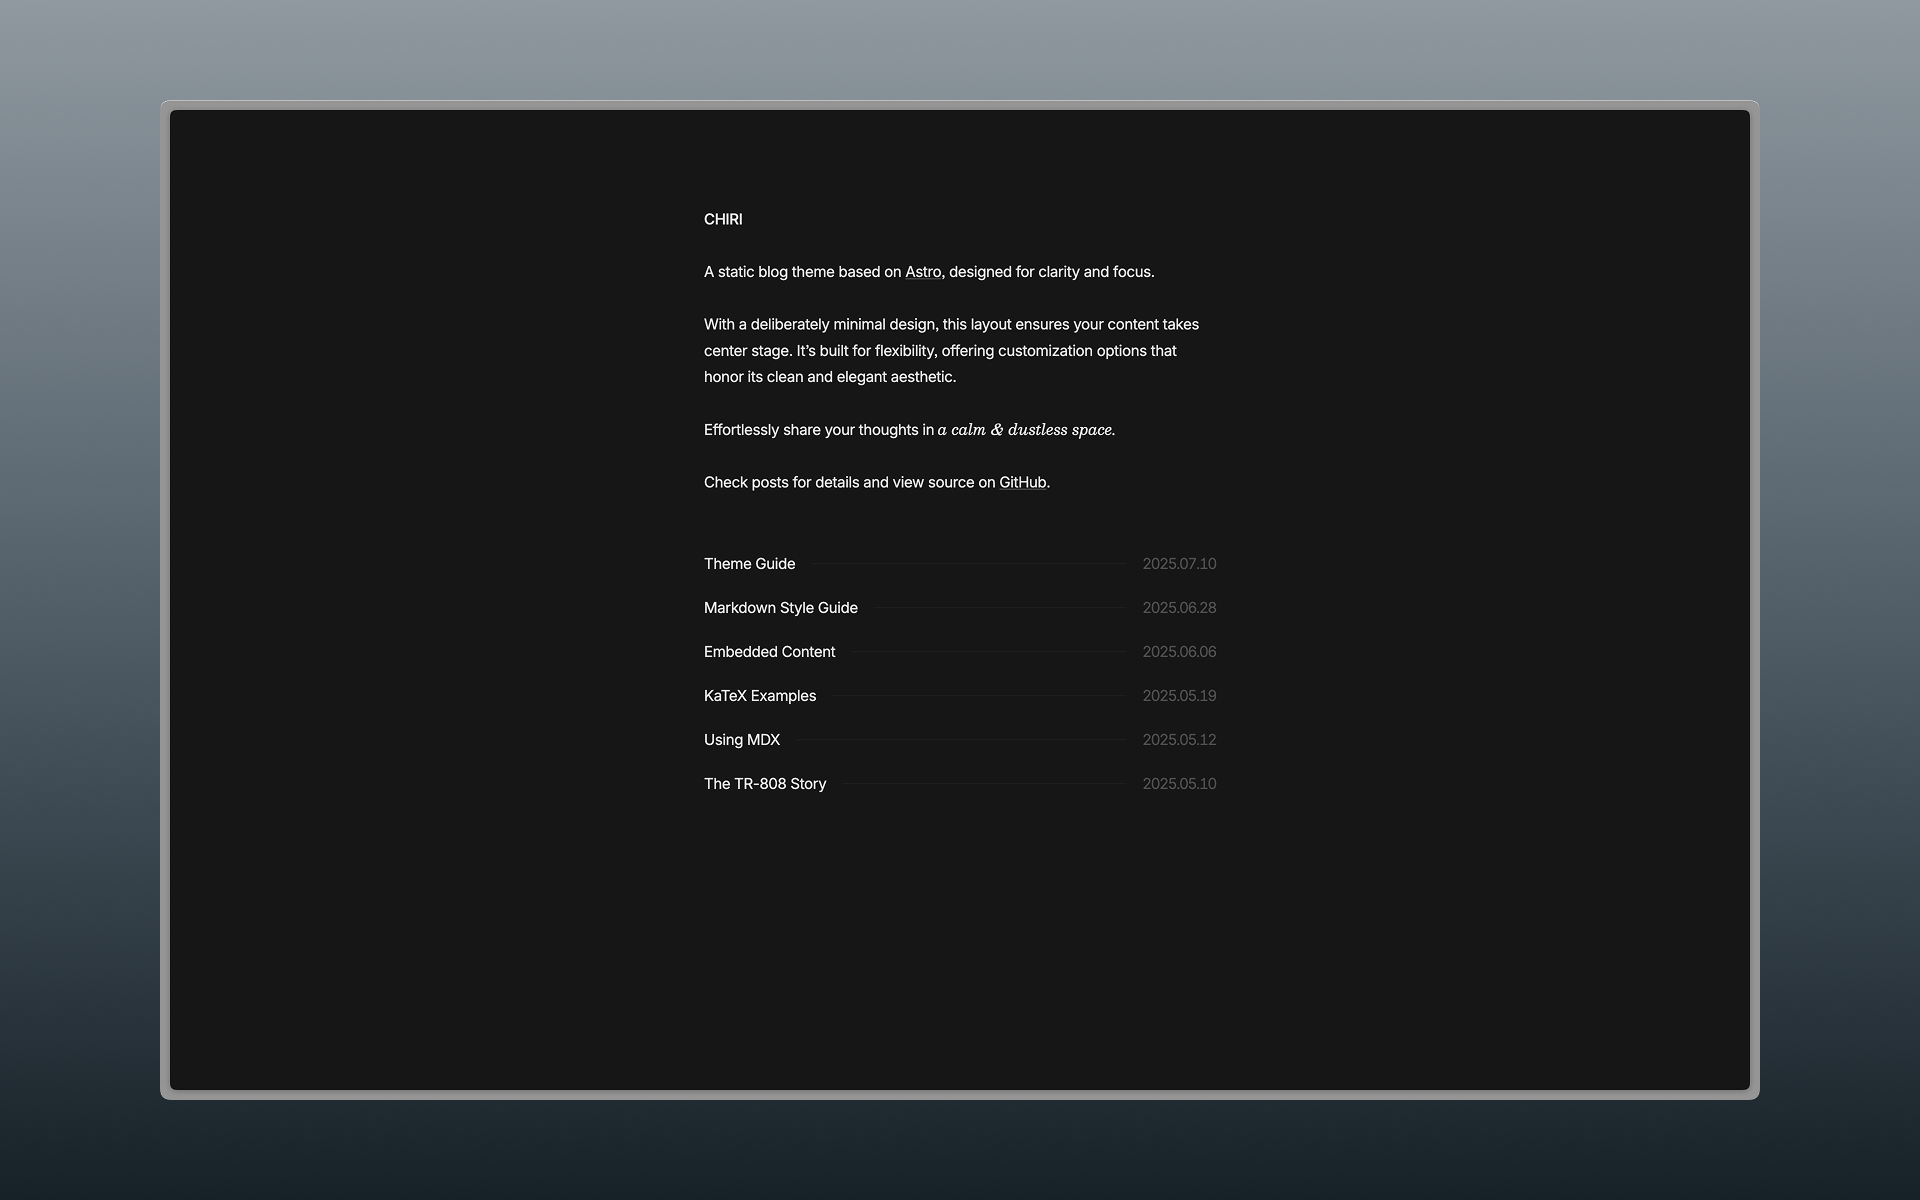
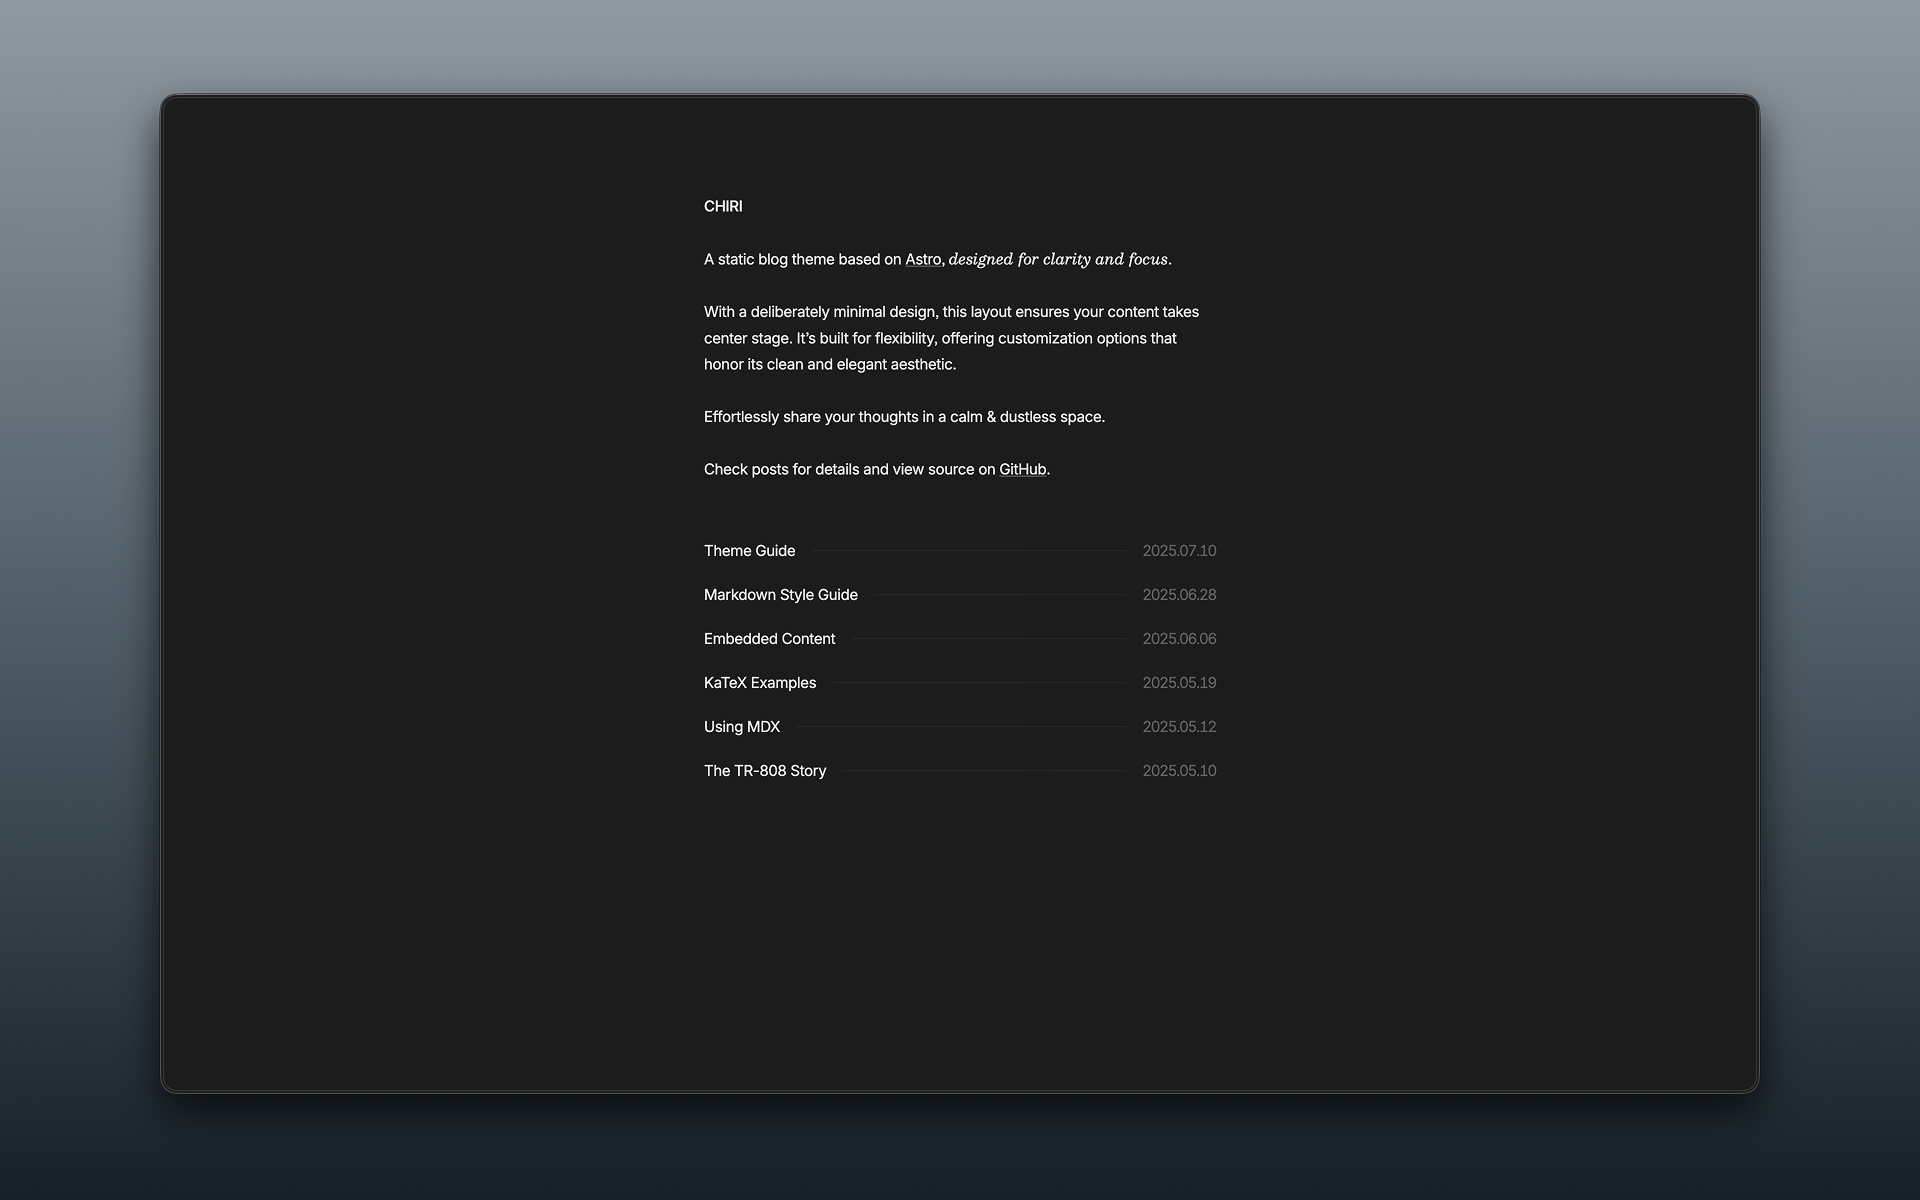
feat: add first blog post and SEO article template

diff --git a/src/content/posts/my-first-post.md b/src/content/posts/my-first-post.md
@@ -1,0 +1,122 @@
+---
+title: Astro 部署 GitHub Pages 404 问题解决方案（base路径 + Actions配置）
+description: 记录 Astro 项目部署到 GitHub Pages 出现 404、样式丢失、资源路径错误的排查与解决方法
+pubDate: 2026-05-13
+tags: ["Astro", "GitHub Pages", "部署", "404", "base路径", "GitHub Actions"]
+---
+
+这篇记录一下 Astro 项目部署到 GitHub Pages 时遇到的几个典型问题：
+
+- 页面 404
+- CSS / JS 丢失
+- 图片资源加载失败
+- GitHub Actions 构建问题
+
+基本都是部署路径和配置问题。
+
+---
+
+## 问题一：GitHub Pages 部署后 404
+
+刚开始部署完，访问 GitHub Pages 地址直接 404。
+
+但 GitHub Actions 是成功的，没有报错。
+
+后来才发现是部署配置或者路径问题导致的。
+
+---
+
+## 问题二：Astro 在 GitHub Pages 必须配置 base
+
+GitHub Pages 的项目站点不是根路径，而是：
+
+```
+https://username.github.io/repo-name/
+```
+
+所以必须在 `astro.config.mjs` 中配置 base：
+
+```js
+import { defineConfig } from "astro/config";
+
+export default defineConfig({
+  base: "/你的仓库名/",
+});
+```
+
+如果不配置，会出现：
+
+- CSS 加载失败
+- JS 不执行
+- 页面结构正常但无样式
+
+---
+
+## 问题三：静态资源路径错误（图片 / CSS）
+
+本地开发时通常这样写：
+
+```
+/images/xxx.png
+```
+
+在 GitHub Pages 上会失效，因为路径不在根目录。
+
+解决方式是使用 base 路径：
+
+```js
+import.meta.env.BASE_URL + "images/xxx.png"
+```
+
+或者统一使用相对 base 的资源路径管理方式。
+
+---
+
+## 问题四：GitHub Actions 构建失败（Node / pnpm）
+
+第一次使用默认 workflow 时遇到构建失败，主要原因是：
+
+- Node 版本过低
+- pnpm 未正确安装或未缓存依赖
+
+修改后配置：
+
+- Node 18+
+- 正确安装依赖（pnpm install）
+- 构建命令 pnpm build
+
+之后构建正常。
+
+---
+
+## 最终解决步骤总结
+
+这次问题最终是通过以下几步解决的：
+
+1. 在 astro.config.mjs 中配置 base
+2. 修复静态资源路径
+3. 修改 GitHub Actions 构建配置
+
+重新部署后正常访问。
+
+---
+
+## 相关关键词（方便搜索）
+
+Astro GitHub Pages 404  
+Astro 部署失败  
+GitHub Pages CSS 不生效  
+Astro base 配置  
+Astro 静态资源路径错误  
+GitHub Actions Astro 部署  
+Astro 项目上线问题  
+
+---
+
+## 结语
+
+这类问题本质上都不是代码错误，而是部署路径问题。
+
+本地正常 ≠ 部署正常，尤其是 GitHub Pages 这种子路径站点。
+
+以后遇到类似问题，优先检查 base 和资源路径。

diff --git a/src/content/posts/_seo_template.md b/src/content/posts/_seo_template.md
@@ -1,0 +1,111 @@
+---
+title: {{关键词1}} + {{问题}} + {{解决方案}}
+description: 解决 {{核心问题}}（包含关键词1 / 关键词2 / 场景）
+pubDate: 2026-05-14
+tags: ["{{技术栈}}", "{{问题关键词}}", "{{场景}}"]
+---
+
+这篇文章记录一下在 {{技术栈}} 中遇到的 {{问题描述}}，以及最终的解决方式。
+
+问题主要出现在：
+- {{问题1}}
+- {{问题2}}
+- {{问题3}}
+
+---
+
+## 问题背景（What happened）
+
+简单描述一下你当时在做什么，比如：
+
+本地开发是正常的，但部署到 {{平台}} 后出现问题。
+
+---
+
+## 问题现象（Symptom）
+
+具体表现是什么：
+
+- 页面 404
+- 样式丢失
+- 接口异常
+- 构建失败
+
+---
+
+## 原因分析（Why）
+
+这里写核心原因（SEO关键段落）
+
+最终发现问题是：
+
+> {{核心原因一句话总结}}
+
+例如：
+- 路径问题
+- base 配置错误
+- 构建工具差异
+- 环境变量问题
+
+---
+
+## 解决方案（Fix）
+
+具体怎么修：
+
+### Step 1
+
+```js
+{{代码/配置1}}
+```
+
+### Step 2
+
+```bash
+{{命令}}
+```
+
+### Step 3
+
+重新构建并部署：
+
+```bash
+{{build命令}}
+```
+
+---
+
+## 最终效果
+
+修复后：
+
+- ✔ 正常访问
+- ✔ 样式恢复
+- ✔ 资源加载正常
+
+---
+
+## 总结（Important）
+
+一句话总结问题本质：
+
+> {{一句话总结（很重要，用于SEO收尾）}}
+
+---
+
+## 相关关键词（SEO）
+
+{{关键词1}}  
+{{关键词2}}  
+{{关键词3}}  
+{{技术名 + 问题}}  
+{{平台 + 错误}}
+
+---
+
+## 延伸阅读（可选）
+
+如果后面还有坑，可以补充：
+
+- {{相关问题1}}
+- {{相关问题2}}

diff --git a/src/content/posts/photography-daily-01.md b/src/content/posts/photography-daily-01.md
@@ -1,0 +1,23 @@
+---
+title: "日更摄影：为什么是今天？"
+pubDate: 2024-05-20
+description: "打破器材焦虑，从身边的第一道光开始。"
+author: "Your Name"
+image:
+    url: "https://images.unsplash.com/photo-1452784444945-3f422708fe5e"
+    alt: "相机特写"
+tags: ["摄影随笔", "日更"]
+---
+
+这就是我的第一篇摄影日更。
+
+以前总觉得要拍大片才值得发博客，结果相机吃灰了好几个月。今天下班看到窗台上的影子，突然意识到：**记录比完美更重要。**
+
+### 今日观察
+光影其实就是时间的注脚。下午四点的光最温柔，斜斜地打在桌面上，连灰尘看起来都有了质感。
+
+### 今日心得
+摄影不是为了向别人证明我去过哪，而是为了提醒自己：**你看，这一刻多美。**
+
+---
+*Shot on iPhone 15 / ISO 100 / 1/120s*
